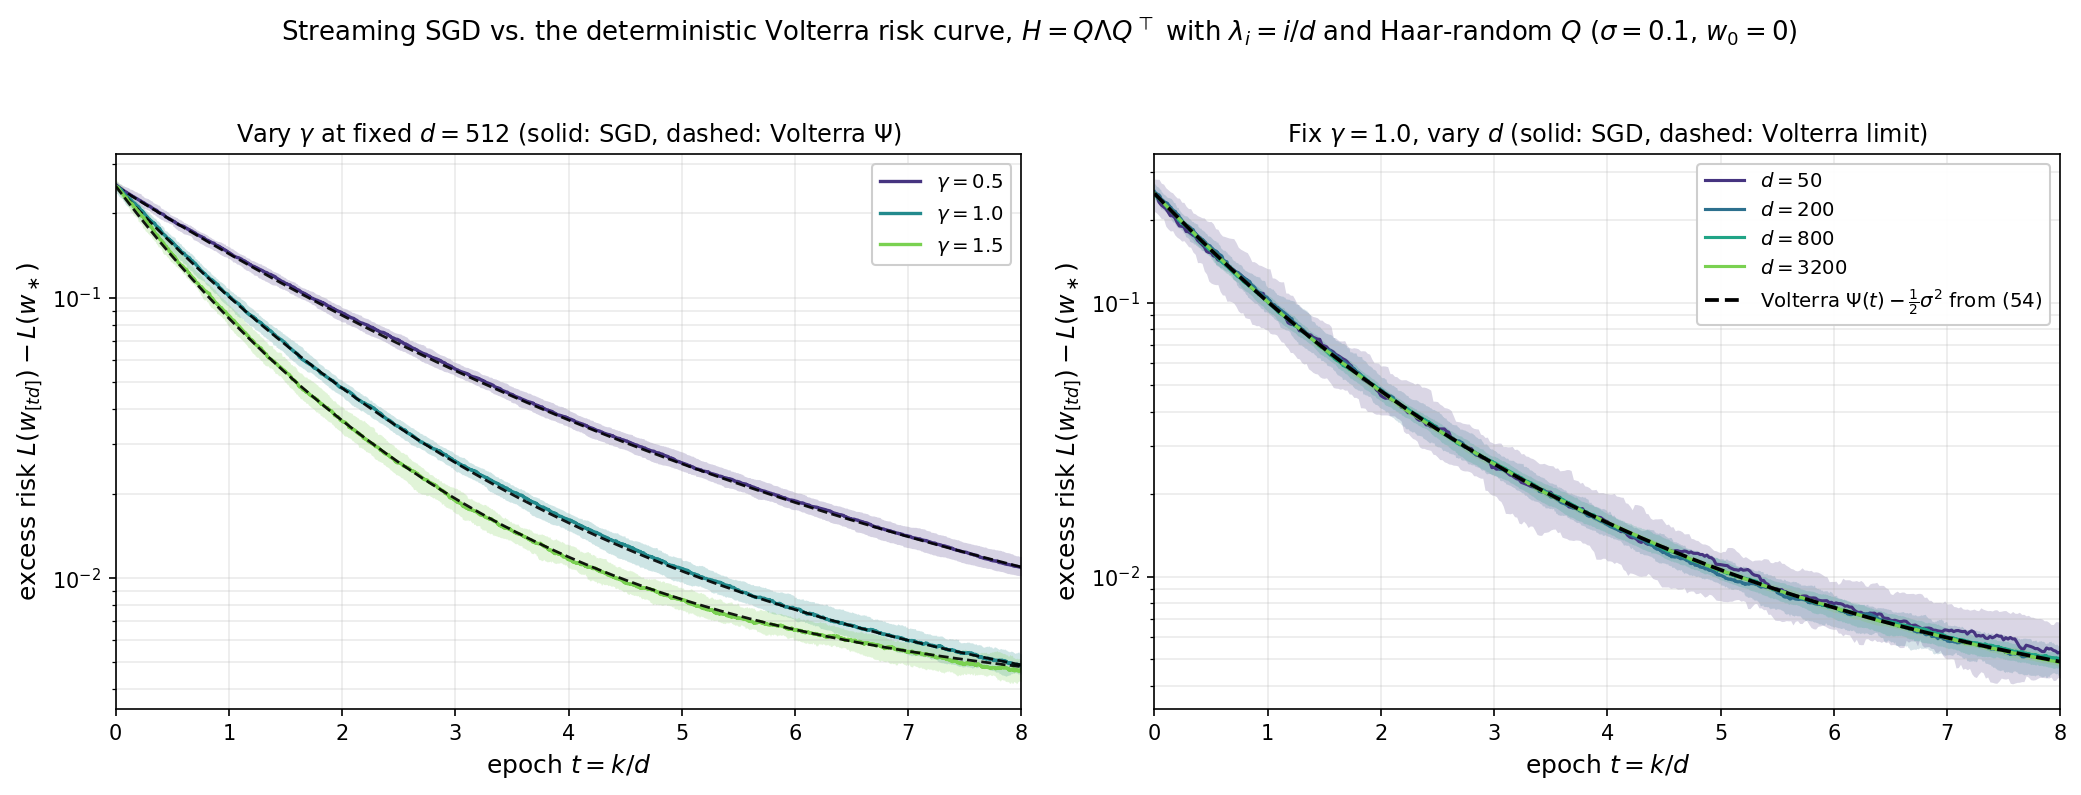
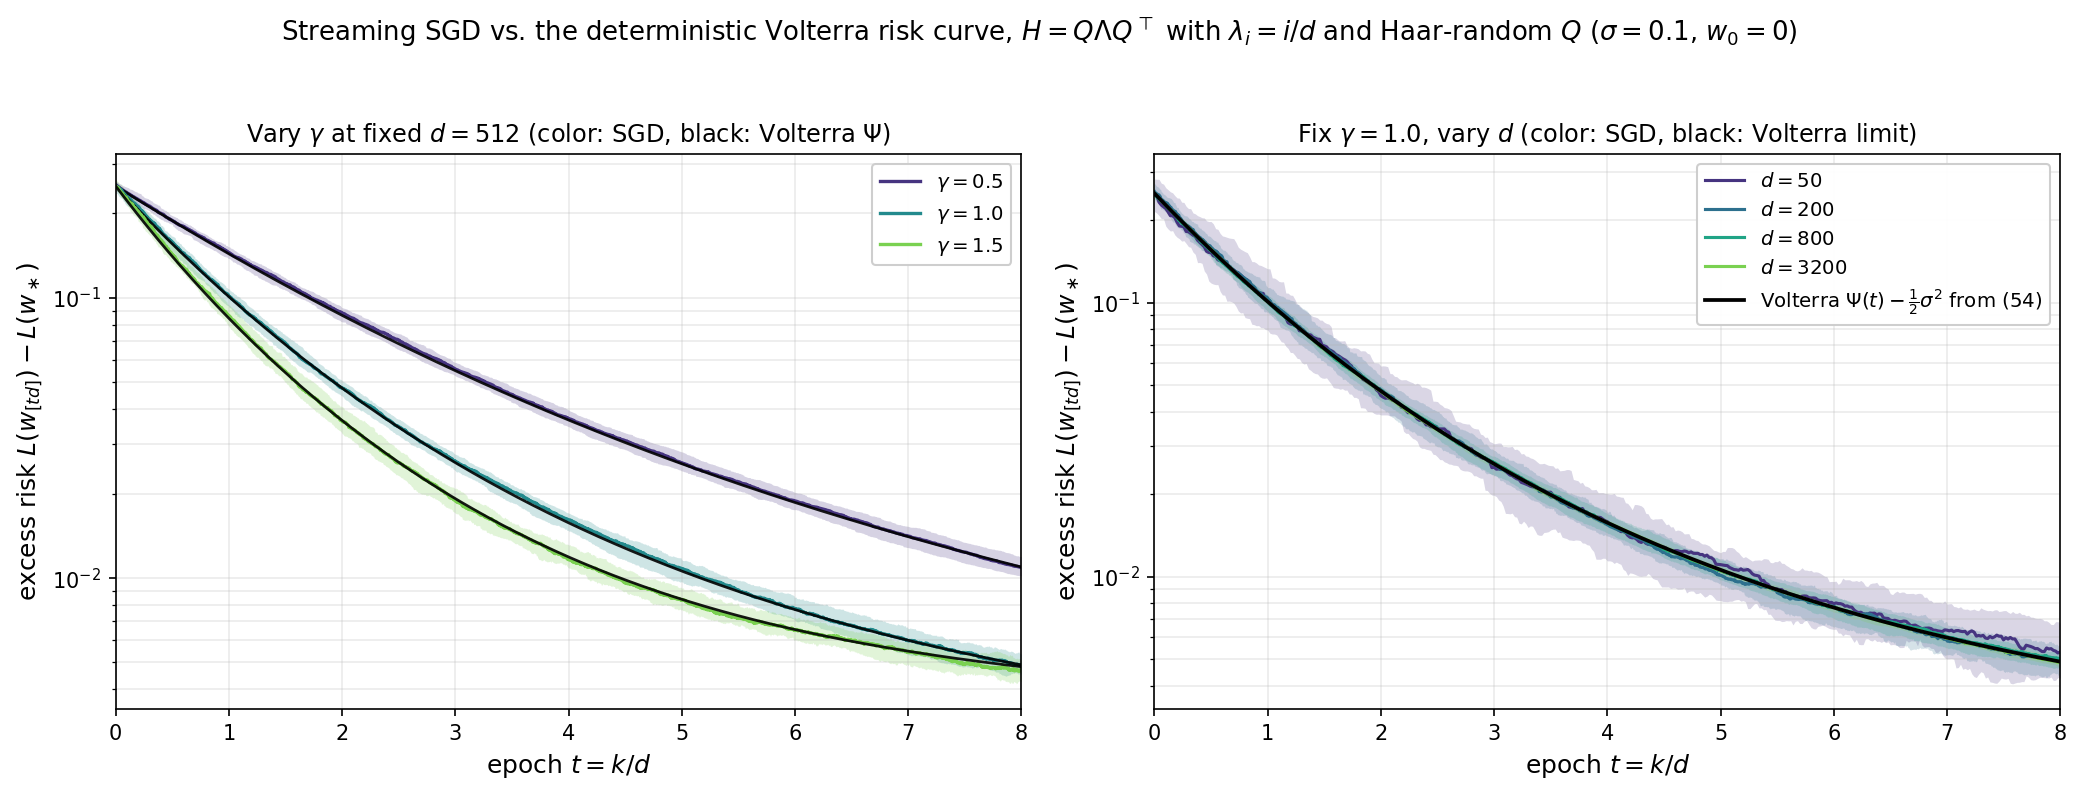
Add consequences of the Volterra equation; solid reference curves in figure
Derive quick corollaries of the Volterra risk equation: critical stepsize
via the kernel mass and Neumann series, the noise floor via a limiting
fixed-point equation, convergence rate and stepsize criticality via the
Malthusian exponent, and the critical batch size as the effective rank of
H. Add [PLPP21] and [Lee+22] references. Make the Volterra curves in the
illustration solid instead of dashed.

Changed region(s): [[0.0937, 0.1509, 0.4373, 0.1811], [0.6247, 0.1509, 0.937, 0.1811]]

diff --git a/scripts/plot_sgd_volterra_limit.py b/scripts/plot_sgd_volterra_limit.py
@@ -149,7 +149,7 @@ def panel_vary_gamma(ax, sigma, n_epochs, d, gammas, n_trials, rng_master):
         ax.plot(epochs, med, "-", color=color, linewidth=1.6,
                 label=rf"$\gamma={gamma}$")
         t_grid, excess_Psi = deterministic_volterra(1024, sigma, gamma, n_epochs)
-        ax.plot(t_grid, excess_Psi, "--", color="black", linewidth=1.3, alpha=0.9)
+        ax.plot(t_grid, excess_Psi, "-", color="black", linewidth=1.3, alpha=0.9)
         gap = float(np.max(np.abs(np.interp(epochs, t_grid, excess_Psi) - med)))
         print(f"  gamma={gamma}: max |median SGD - Volterra| = {gap:.3e}")
     ax.set_yscale("log")
@@ -157,7 +157,7 @@ def panel_vary_gamma(ax, sigma, n_epochs, d, gammas, n_trials, rng_master):
     ax.set_xlabel(r"epoch $t = k/d$", fontsize=12)
     ax.set_ylabel(r"excess risk $L(w_{[td]}) - L(w_\ast)$", fontsize=12)
     ax.set_title(rf"Vary $\gamma$ at fixed $d={d}$ "
-                 rf"(solid: SGD, dashed: Volterra $\Psi$)", fontsize=11.5)
+                 rf"(color: SGD, black: Volterra $\Psi$)", fontsize=11.5)
     ax.grid(True, which="both", alpha=0.25)
     ax.legend(fontsize=9.5, loc="upper right", framealpha=0.95)
 
@@ -182,14 +182,14 @@ def panel_vary_d(ax, sigma, n_epochs, gamma, dims, n_trials, rng_master):
         print(f"  d={d}: R_final median = {med[-1]:.3e}, "
               f"max band (t>=2) = {band:.3e}")
     t_grid, excess_Psi = deterministic_volterra(1024, sigma, gamma, n_epochs)
-    ax.plot(t_grid, excess_Psi, "--", color="black", linewidth=1.8,
+    ax.plot(t_grid, excess_Psi, "-", color="black", linewidth=1.8,
             label=r"Volterra $\Psi(t) - \frac{1}{2}\sigma^2$ from (54)")
     ax.set_yscale("log")
     ax.set_xlim(0, n_epochs)
     ax.set_xlabel(r"epoch $t = k/d$", fontsize=12)
     ax.set_ylabel(r"excess risk $L(w_{[td]}) - L(w_\ast)$", fontsize=12)
     ax.set_title(rf"Fix $\gamma={gamma}$, vary $d$ "
-                 rf"(solid: SGD, dashed: Volterra limit)", fontsize=11.5)
+                 rf"(color: SGD, black: Volterra limit)", fontsize=11.5)
     ax.grid(True, which="both", alpha=0.25)
     ax.legend(fontsize=9.5, loc="upper right", framealpha=0.95)
 

diff --git a/week1.md b/week1.md
@@ -3308,10 +3308,10 @@ $$
 Thus the diffusion SDE is given by
 
 $$
-dX_t=-\gamma\,\nabla L(X_t)\,dt+\frac{\gamma}{\sqrt d}\Bigl(2L(X_t)\,H+H(X_t-w_\ast)(X_t-w_\ast)^\top H\Bigr)^{1/2}\,dB_t.
+dX_t=-\gamma\,\nabla L(X_t)\,dt+\frac{\gamma}{\sqrt d}\Bigl(2L(X_t)\,H+\nabla L(X_t)\nabla L(X_t)^\top \Bigr)^{1/2}\,dB_t.
 $$
 
-The diffusion above splits into two parts: a **bulk** term $\tfrac{\gamma^2}{d}\,2L(X_t)H$ spread across all eigendirections of $H$, and a **rank-one** correction $\tfrac{\gamma^2}{d}H(X_t-w_\ast)(X_t-w_\ast)^\top H$ acting along the single direction $\nabla L(X_t)=H(X_t-w_\ast)$. The SDE built from the drift together with the bulk term alone is **homogenized SGD** (defined precisely below); the rank-one correction is dropped.
+The diffusion above splits into two parts: a **bulk** term $\tfrac{\gamma^2}{d}\,2L(X_t)H$ spread across all eigendirections of $H$, and a **rank-one** correction $\nabla L(X_t)\nabla L(X_t)^\top$ acting along the single direction $\nabla L(X_t)$. The SDE built from the drift together with the bulk term alone is **homogenized SGD** (defined precisely below); the rank-one correction is dropped.
 
 
 
@@ -3335,7 +3335,7 @@ Setting the stage, let $q\colon\mathbb{R}^d\to\mathbb{R}$ be any quadratic funct
 
 $$
 \frac{1}{h}\,\mathbb{E}_k\bigl[q(w_{k+1})-q(w_k)\bigr]
-=d\,\nabla q(w_k)^\top\mathbb{E}_k[\Delta_k]+\frac{d}{2}\bigl\langle\nabla^2 q(w_k),\,\mathbb{E}_k[\Delta_k\Delta_k^\top]\bigr\rangle.
+=d\,\nabla q(w_k)^\top\mathbb{E}_k[\Delta_k]+\frac{d}{2}\bigl\langle\nabla^2 q,\,\mathbb{E}_k[\Delta_k\Delta_k^\top]\bigr\rangle.
 $$
 
 Substituting the already computed expressions for the two moments of $\Delta_k$ yields
@@ -3343,11 +3343,11 @@ Substituting the already computed expressions for the two moments of $\Delta_k$ 
 $$
 \frac{1}{h}\,\mathbb{E}_k\bigl[q(w_{k+1})-q(w_k)\bigr]
 =-\gamma\,\nabla q(w_k)^\top\nabla L(w_k)
-+\frac{\gamma^2 L(w_k)}{d}\operatorname{Tr}\!\bigl(H\nabla^2 q(w_k)\bigr)
-+\frac{\gamma^2}{d}\,u_k^\top H\nabla^2 q(w_k)\,Hu_k. \tag{48}
++\frac{\gamma^2 L(w_k)}{d}\operatorname{Tr}\!\bigl(H\nabla^2 q\bigr)
++\frac{\gamma^2}{d}\,u_k^\top H\nabla^2 q\,Hu_k. \tag{48}
 $$
 
-The right-hand side of $(48)$ is the **drift rate** of the statistic $q$ under streaming SGD — how fast $\mathbb{E}_k\,q$ moves per unit of epoch time. The first two terms are of **constant order**: the gradient term $-\gamma\,\nabla q(w_k)^\top\nabla L(w_k)$ is $O(1)$, and although the second carries an explicit $1/d$, its trace $\operatorname{Tr}(H\nabla^2 q(w_k))$ sums contributions from all $\sim d$ eigendirections, so it too is $O(1)$. The third term is  smaller: $u_k^\top H\nabla^2 q(w_k)\,Hu_k$ is a *single* quadratic form, bounded once $\|u_k\|$ and $\|H\|$ are, so with the $1/d$ prefactor it is only $O(1/d)$. Thus the third term becomes negligible in high dimensions.
+The right-hand side of $(48)$ is the **drift rate** of the statistic $q$ under streaming SGD — how fast $\mathbb{E}_k\,q$ moves per unit of epoch time. The first two terms are of **constant order**: the gradient term $-\gamma\,\nabla q(w_k)^\top\nabla L(w_k)$ is $O(1)$, and although the second carries an explicit $1/d$, its trace $\operatorname{Tr}(H\nabla^2 q)$ sums contributions from all $\sim d$ eigendirections, so it too is $O(1)$. The third term is  smaller: $u_k^\top H\nabla^2 q\,Hu_k$ is a *single* quadratic form, bounded once $\|u_k\|$ and $\|H\|$ are, so with the $1/d$ prefactor it is only $O(1/d)$. Thus the third term becomes negligible in high dimensions.
 
  The plan now is to compute the analogous drift rate for the diffusion approximation. This is immediate from Ito's calculus rule, summarized in the following lemma.
 
@@ -3373,13 +3373,13 @@ Applying the lemma to the diffusion SDE yields
 $$
 \frac{d}{dt}\,\mathbb{E}\,q(X_t)
 =\mathbb{E}\Bigl[-\gamma\,\nabla q(X_t)^\top\nabla L(X_t)
-+\frac{\gamma^2 L(X_t)}{d}\operatorname{Tr}\!\bigl(H\nabla^2 q(X_t)\bigr)
-+\frac{\gamma^2}{2d}\,u_t^\top H\nabla^2 q(X_t)\,Hu_t\Bigr]. \tag{49}
++\frac{\gamma^2 L(X_t)}{d}\operatorname{Tr}\!\bigl(H\nabla^2 q\bigr)
++\frac{\gamma^2}{2d}\,u_t^\top H\nabla^2 q\,Hu_t\Bigr]. \tag{49}
 $$
 
 Inside the bracket of $(49)$, the first two terms are exactly the leading $O(1)$ part of the discrete drift rate $(48)$; the last — from the rank-one part of $\Sigma$ — is a single quadratic form of order $1/d$. So along the diffusion the expected statistic evolves at the same rate as along SGD, up to an $O(1/d)$ rank-one correction.
 
-Since the rank-one term is $O(1/d)$, it has no effect on the leading-order evolution of any quadratic statistic both along SGD and the diffusion approximation. We may therefore discard it and keep only the bulk $\tfrac{\gamma^2}{d}\,2L(X)H$ in the covariance of the SDE. The resulting process is called the **homogenized SGD** and it is indestinguoshable from the diffusion approximation in high dimensions on the level of quadratic statistics.
+Since the rank-one term is $O(1/d)$, it has no effect on the leading-order evolution of any quadratic statistic both along SGD and the diffusion approximation. We may therefore discard it and keep only the bulk $\tfrac{\gamma^2}{d}\,2L(X)H$ in the covariance of the SDE. The resulting process is called the **homogenized SGD** and it is indestinguishable from the diffusion approximation in high dimensions on the level of quadratic statistics.
 
 
 
@@ -3443,7 +3443,7 @@ $$
 Passing now to the expected loss yields a very simple evolution equation. Namely define
 
 $$
-F(s) := \tfrac12\sigma^2 + \tfrac12(w_0-w_\ast)^\top H e^{-2 s H}, \tag{52}
+F(s) := \tfrac12\sigma^2 + \tfrac12(w_0-w_\ast)^\top H e^{-2 s H}(w_0-w_\ast), \tag{52}
 $$
 
 which is exactly the loss along the noiseless gradient flow $\dot Y_t = -\gamma\nabla L(Y_t)$. The loss along the homogenized SGD then evolves according to the expression
@@ -3512,11 +3512,95 @@ Hence the entire limiting risk curve — kernel, forcing, and therefore the solu
 
 This closes the loop with the deterministic theory of Section 7. There, the average-case complexity of gradient descent and conjugate gradients on a quadratic was dictated by the spectral density of the Hessian, with the small-eigenvalue (soft-edge) behavior fixing the asymptotic rate. The same spectral data now governs the high-dimensional limit of *streaming* SGD: the forcing $F$ is the noiseless gradient-flow risk — the continuous-time, full-gradient object of Section 7, read off the very same integrals $(57)$ — while the convolution in $(54)$ layers on the accumulated effect of the one-pass gradient noise, again as a spectral integral $(56)$ against $\mu_H$. 
 
-**Numerical illustration.** The figure below uses the same correlated-feature model as above — covariance $H = Q\Lambda Q^\top$ with $\Lambda = \operatorname{diag}(\lambda_i)$, $\lambda_i = i/d$ (linear-ramp spectrum on $(0,1]$) and $Q$ a Haar-random rotation, label noise $\sigma = 0.1$, a unit signal $\|w_\ast\| = 1$, and start $w_0 = 0$. In both panels the solid curve is the median of $t\mapsto L(w_{[td]}) - L(w_\ast)$ over independent trials, the shaded ribbon is the corresponding $10$–$90\%$ interquantile band, and the dashed black curve is the deterministic Volterra solution $\Psi(t) - \tfrac12\sigma^2$ obtained by trapezoidal-rule integration of $(54)$ with the limiting spectral data of $(56)$–$(57)$ (evaluated at $d = 1024$ as a proxy for the limit). *Left:* at fixed dimension $d = 512$, the Volterra curve tracks streaming SGD across stepsizes $\gamma \in \lbrace 0.5, 1, 1.5\rbrace$, capturing both the decay rate and the noise floor. *Right:* at fixed $\gamma = 1$, as $d \in \lbrace 50, 200, 800, 3200\rbrace$ grows the bands shrink around the single deterministic Volterra curve, exactly as Theorem 10.8 predicts.
+**Numerical illustration.** The figure below uses the same correlated-feature model as above — covariance $H = Q\Lambda Q^\top$ with $\Lambda = \operatorname{diag}(\lambda_i)$, $\lambda_i = i/d$ (linear-ramp spectrum on $(0,1]$) and $Q$ a Haar-random rotation, label noise $\sigma = 0.1$, a unit signal $\|w_\ast\| = 1$, and start $w_0 = 0$. In both panels the colored curve is the median of $t\mapsto L(w_{[td]}) - L(w_\ast)$ over independent trials, the shaded ribbon is the corresponding $10$–$90\%$ interquantile band, and the black curve is the deterministic Volterra solution $\Psi(t) - \tfrac12\sigma^2$ obtained by trapezoidal-rule integration of $(54)$ with the limiting spectral data of $(56)$–$(57)$ (evaluated at $d = 1024$ as a proxy for the limit). *Left:* at fixed dimension $d = 512$, the Volterra curve tracks streaming SGD across stepsizes $\gamma \in \lbrace 0.5, 1, 1.5\rbrace$, capturing both the decay rate and the noise floor. *Right:* at fixed $\gamma = 1$, as $d \in \lbrace 50, 200, 800, 3200\rbrace$ grows the bands shrink around the single deterministic Volterra curve, exactly as Theorem 10.8 predicts.
 
 ![Streaming SGD versus the deterministic Volterra risk curve with a randomly rotated covariance $H=Q\Lambda Q^\top$: the Volterra solution tracks the SGD risk across stepsizes (left) and the random curve concentrates around it as the dimension grows (right)](figures/sgd_volterra_limit.png)
 
-The scalar-ODE reduction of Theorem 10.2 is in the spirit of Ben Arous, Gheissari, and Jagannath [BAGJ22] and goes back, in the neural-network context, to Saad and Solla [SS95]. The homogenized SGD comparison and the Volterra risk curve are due to Paquette, Paquette, Adlam, and Pennington [Paq+22a, Paq+22b], with extensions in Collins-Woodfin and Paquette [CP23]. We have followed the lecture-note synthesis of Paquette [Paq23].
+**Reading off consequences.** There are now a number of observations we cn extract from the Volterra equation $(54)$ that apply to the streaming SGD. Throughout, write $\bar\lambda := \int \lambda\,\mu_H(d\lambda) = \tfrac{1}{d}\operatorname{Tr} H$ for the average eigenvalue of $H$.
+
+**1. Critical stepsize.** Let us first compute the maximal stepsize $\gamma$ that keeps the Voltera model bounded. To this end, a direct computation shows that the total mass of the memory kernel is
+
+$$
+\int_0^\infty \mathcal{K}_\gamma(t)\,dt
+\;=\; \gamma^2 \int \int_0^\infty \lambda^2\, e^{-2\gamma\lambda t}\,dt\,\mu_H(d\lambda)
+\;=\; \gamma^2 \int \frac{\lambda^2}{2\gamma\lambda}\,\mu_H(d\lambda)
+\;=\; \frac{\gamma\bar\lambda}{2}. \tag{58}
+$$
+
+Define now the convolution operation $(f * g)(t) := \int_0^t f(t-s)\,g(s)\,ds$, so that $(54)$ reads as $\Psi = F(\gamma\,\cdot) + \mathcal{K}_\gamma * \Psi$. Substituting the equation into itself $n$ times unrolls it into
+
+$$
+\Psi \;=\; F(\gamma\,\cdot) \;+\; \mathcal{K}_\gamma * F(\gamma\,\cdot) \;+\; \mathcal{K}_\gamma^{*2} * F(\gamma\,\cdot) \;+\; \cdots \;+\; \mathcal{K}_\gamma^{*n} * F(\gamma\,\cdot) \;+\; \mathcal{K}_\gamma^{*(n+1)} * \Psi,
+$$
+
+where $\mathcal{K}_\gamma^{*n} := \mathcal{K}_\gamma * \cdots * \mathcal{K}_\gamma$ is the $n$-fold convolution. Each term in this sum is controlled by the kernel mass. Indeed, since we have $\mathcal{K}_\gamma \ge 0$ and $F \le F(0)$, we obtain
+
+$$
+\sup_{t \ge 0}\;\bigl(\mathcal{K}_\gamma^{*n} * F(\gamma\,\cdot)\bigr)(t) \;\le\; F(0)\int_0^\infty \mathcal{K}_\gamma^{*n}(t)\,dt \;=\; F(0)\Bigl(\frac{\gamma\bar\lambda}{2}\Bigr)^{\!n},
+$$
+
+where the last equality uses that the integral of a convolution is the product of the integrals. If the mass $\gamma\bar\lambda/2$ is $< 1$, these bounds form a convergent geometric series and the remainder term vanishes as $n \to \infty$, leaving the **Neumann series** $\Psi = \sum_{n\ge0} \mathcal{K}_\gamma^{*n} * F(\gamma\,\cdot)$ with $\sup_t \Psi(t) \le F(0)/(1 - \gamma\bar\lambda/2)$. If instead the mass is $\ge 1$ each term satisfies $(\mathcal{K}_\gamma^{*n} * F(\gamma\,\cdot))(t) \ge \tfrac12\sigma^2 \int_0^t \mathcal{K}_\gamma^{*n}(s)\,ds \to \tfrac12\sigma^2\,(\gamma\bar\lambda/2)^n$ as $t \to \infty$, so infinitely many terms each contribute at least $\tfrac12\sigma^2$, and $\Psi(t) \to \infty$. Streaming SGD therefore has a **critical stepsize**:
+
+$$
+\Psi \text{ remains bounded} \quad\Longleftrightarrow\quad \gamma \;<\; \gamma_c := \frac{2}{\bar\lambda} = \frac{2d}{\operatorname{Tr} H}.
+$$
+
+Thus, stability is governed by the *average* eigenvalue — the aggregate gradient noise generated across the whole spectrum — and not by $\lambda_{\max}$. Indeed, with stepsize $\gamma/d$, the classical curvature constraint of gradient descent reads $\gamma < 2d/\lambda_{\max}$. For the isotropic model $H = I$ we recover the threshold $\gamma_c = 2$ of the scalar ODE $(46)$.
+
+**2. The noise floor.** Fix $\gamma < \gamma_c$, so that $\Psi$ is bounded, and let us compute the value $\Psi(\infty) := \lim_{t\to\infty}\Psi(t)$ that the risk settles at (taking for granted that the limit exists, which can be justified). The idea is simply to pass to the limit $t \to \infty$ on both sides of $(54)$ and see what equation survives.
+
+Start with the forcing term. By $(57)$ we have $F(\gamma t) = \tfrac12\sigma^2 + \tfrac12\int \lambda\, e^{-2\gamma t\lambda}\,\nu(d\lambda)$, and every exponential with $\lambda > 0$ decays to zero (while $\lambda = 0$ contributes nothing because of the $\lambda$ weight in front). Hence $F(\gamma t) \to \tfrac12\sigma^2$: in the long run the gradient-flow part of the risk is gone and only the label noise remains.
+
+Next the convolution term. Change variables $u := t - s$ to put the kernel's argument in the integrand:
+
+$$
+\int_0^t \mathcal{K}_\gamma(t-s)\,\Psi(s)\,ds \;=\; \int_0^t \mathcal{K}_\gamma(u)\,\Psi(t-u)\,du.
+$$
+
+As $t \to \infty$, the factor $\Psi(t-u)$ tends to $\Psi(\infty)$ for every fixed $u$; since $\Psi$ is bounded and $\mathcal{K}_\gamma$ is integrable, dominated convergence lets us pass the limit inside, and the right-hand side converges to $\Psi(\infty)\int_0^\infty \mathcal{K}_\gamma(u)\,du = \Psi(\infty)\cdot\tfrac{\gamma\bar\lambda}{2}$ by $(58)$. In words: at stationarity, the convolution simply weighs the (constant) risk by the total mass of the kernel.
+
+The Volterra equation thus collapses, in the limit, to a scalar fixed-point equation:
+
+$$
+\Psi(\infty) \;=\; \tfrac12\sigma^2 + \frac{\gamma\bar\lambda}{2}\,\Psi(\infty)
+\qquad\Longrightarrow\qquad
+\Psi(\infty) - \tfrac12\sigma^2 \;=\; \frac{\gamma\bar\lambda\,\sigma^2}{2\,(2 - \gamma\bar\lambda)}. \tag{59}
+$$
+
+The floor is proportional to $\gamma$ for small stepsizes and blows up as $\gamma \uparrow \gamma_c$. For $H = I$ it reduces to $\gamma\sigma^2/(2(2-\gamma))$, matching exactly the stationary value of the scalar ODE $(46)$.
+
+**3. Rate of convergence and stepsize criticality.** How fast $\Psi(t)$ approaches its floor is decided by a competition between the forcing and the kernel. The forcing $F(\gamma t)$ decays at the *gradient-flow* rate — $e^{-2\gamma\lambda_{\min} t}$ when $\lambda_{\min} := \min_i \lambda_i(H) > 0$ — while the homogeneous part of the renewal equation decays at the **Malthusian rate** $\lambda^*(\gamma)$, the root of
+
+$$
+\int_0^\infty e^{\lambda^* t}\,\mathcal{K}_\gamma(t)\,dt
+\;=\; \gamma^2 \int \int_0^\infty \lambda^2\, e^{-(2\gamma\lambda - \lambda^*)t}\,dt\,\mu_H(d\lambda)
+\;=\; \gamma^2 \int \frac{\lambda^2}{2\gamma\lambda - \lambda^*}\,\mu_H(d\lambda) \;=\; 1,
+\qquad \lambda^* \in (0,\, 2\gamma\lambda_{\min}), \tag{60}
+$$
+
+when a root exists; the overall rate is the smaller of the two. For small $\gamma$ the kernel is light, no root exists, and the risk decays at the gradient-flow rate $2\gamma\lambda_{\min}$, which *increases* with $\gamma$ — noise is a spectator. Beyond a spectrum-dependent threshold the Malthusian root appears and takes over, and as $\gamma \uparrow \gamma_c$ it *decreases to zero*: near criticality the gradient noise, endlessly recycled through the convolution, throttles convergence. The rate is therefore maximized at an interior stepsize $\gamma_{\mathrm{opt}} < \gamma_c$ — aggressive stepsizes are punished twice, by a slower transient and a higher floor $(59)$. For $H = I$, equation $(60)$ reads $\gamma^2/(2\gamma - \lambda^*) = 1$, giving $\lambda^*(\gamma) = 2\gamma - \gamma^2$ with optimum $\gamma_{\mathrm{opt}} = 1$ — exactly the decay rate of the scalar ODE $(46)$. For the gapless power-law spectra of Section 7 ($\lambda_{\min} = 0$), the forcing decays only polynomially while the kernel mass stays $\gamma\bar\lambda/2 < 1$: the renewal structure then leaves the polynomial exponent untouched, so one-pass SGD inherits the average-case gradient-descent rates of Section 7, with noise only inflating constants and adding the floor.
+
+**4. Critical batch size.** Suppose each update averages the gradient over a mini-batch of $B$ fresh samples. The drift of the diffusion is unchanged while the noise covariance — hence the kernel — is divided by $B$, so the kernel mass becomes $\gamma\bar\lambda/(2B)$ and the stability threshold scales linearly,
+
+$$
+\gamma_c(B) \;=\; \frac{2B}{\bar\lambda},
+$$
+
+a Volterra-style derivation of the *linear scaling rule* (stepsize proportional to batch size). Run at a fixed fraction of the threshold, $\gamma = \beta\,\gamma_c(B)$ with $\beta \in (0,1)$: the transient decays per epoch at the rate $2\gamma\lambda_{\min} = 4\beta B\lambda_{\min}/\bar\lambda$, so the number of *updates* to reach a fixed excess risk falls like $1/B$, while the number of *samples*,
+
+$$
+n \;\approx\; \frac{\operatorname{Tr} H}{4\beta\,\lambda_{\min}}\,\log(1/\varepsilon),
+$$
+
+is independent of $B$ — mini-batching is a perfect parallelizer. But this cannot continue forever: the discrete iteration must still respect the deterministic curvature constraint $\gamma < 2d/\lambda_{\max}$, which no amount of gradient averaging relaxes. The two ceilings cross at the **critical batch size**
+
+$$
+B_{\mathrm{crit}} \;=\; \frac{d\,\bar\lambda}{\lambda_{\max}} \;=\; \frac{\operatorname{Tr} H}{\lambda_{\max}(H)},
+$$
+
+the *effective rank* of the covariance. Below $B_{\mathrm{crit}}$ the noise ceiling binds and parallelism is free; above it the stepsize is pinned by curvature, the number of updates plateaus at the gradient-descent complexity $\sim \tfrac{\lambda_{\max}}{4\beta\lambda_{\min}}\log(1/\varepsilon)$, and the extra samples in each batch are wasted. In one sentence: *mini-batching buys linear speedup exactly until SGD has turned into gradient descent.* For $H = I$ this gives $B_{\mathrm{crit}} = d$; this is the same batch-saturation phenomenon we observed empirically for tail-averaged SGD in Section 8.
+
+The scalar-ODE reduction of Theorem 10.2 is in the spirit of Ben Arous, Gheissari, and Jagannath [BAGJ22] and goes back, in the neural-network context, to Saad and Solla [SS95]. The homogenized SGD comparison and the Volterra risk curve are due to Paquette, Paquette, Adlam, and Pennington [Paq+22a, Paq+22b], with extensions in Collins-Woodfin and Paquette [CP23]. The stepsize-criticality analysis of the Volterra equation appears in Paquette, Lee, Pedregosa, and Paquette [PLPP21], and the batch-size saturation analysis in Lee, Cheng, Paquette, and Paquette [Lee+22]. We have followed the lecture-note synthesis of Paquette [Paq23].
 
 ---
 
@@ -3598,6 +3682,8 @@ The notes combine ideas that appear in different communities; the table below ma
 - [BAGJ22] Ben Arous, G., Gheissari, R., and Jagannath, A. (2022). *High-dimensional limit theorems for SGD: Effective dynamics and critical scaling*. Communications on Pure and Applied Mathematics, to appear. arXiv:2206.04030.
 - [Paq+22a] Paquette, C., Paquette, E., Adlam, B., and Pennington, J. (2022). *Homogenization of SGD in high-dimensions: exact dynamics and generalization properties*. arXiv:2205.07069.
 - [Paq+22b] Paquette, C., Paquette, E., Adlam, B., and Pennington, J. (2022). *Implicit regularization or implicit conditioning? Exact risk trajectories of SGD in high dimensions*. NeurIPS 2022. arXiv:2206.07252.
+- [PLPP21] Paquette, C., Lee, K., Pedregosa, F., and Paquette, E. (2021). *SGD in the Large: Average-case analysis, asymptotics, and stepsize criticality*. COLT 2021. arXiv:2102.04396.
+- [Lee+22] Lee, K., Cheng, A., Paquette, E., and Paquette, C. (2022). *Trajectory of mini-batch momentum: batch size saturation and convergence in high dimensions*. NeurIPS 2022. arXiv:2206.01029.
 - [CP23] Collins-Woodfin, E., and Paquette, E. (2023). *High-dimensional limit of one-pass SGD on least squares*. arXiv:2304.06847.
 - [Paq23] Paquette, E. (2023). *High-dimensional limits of stochastic gradient descent*. Lecture notes, Stochastic Methods and Computation Summer School, Lehigh University.
 - [Rug96] Rugh, W. J. (1996). *Linear System Theory* (2nd ed.). Prentice Hall. (State-transition matrix, variation-of-constants formula, and the differential Lyapunov equation.)